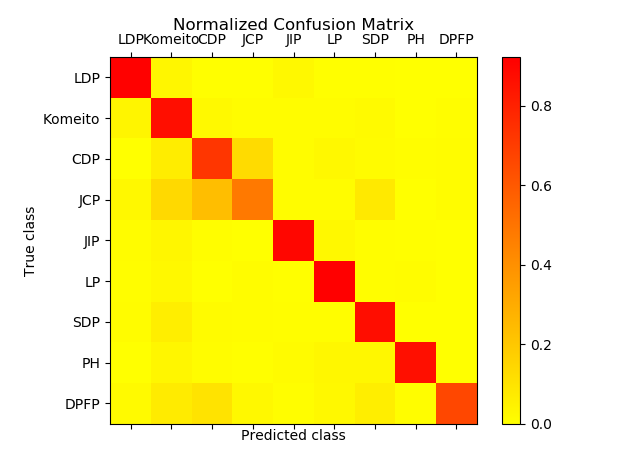
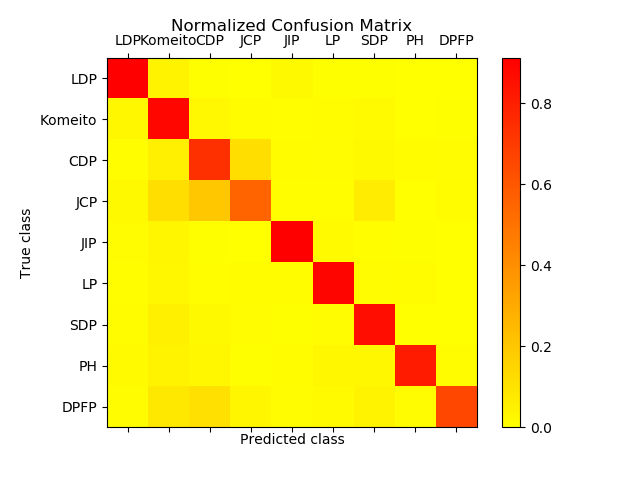
平均混合行列を作成

diff --git a/result/analyze.py b/result/analyze.py
@@ -1,0 +1,38 @@
+import numpy as np
+import matplotlib.pyplot as plt
+import csv
+
+def main():
+    cm = []
+    for i in range(1, 4):
+        cm.append(np.load("result/{0}/cm.npy".format(i)))
+    cm = np.asarray(cm)
+    cm_a = np.mean(cm,axis=0)
+
+    fig = plt.figure()
+    parties = get_parties()
+    ax = plt.subplot()
+    cax = ax.matshow(cm_a, interpolation="nearest", cmap="autumn_r")
+    fig.colorbar(cax)
+    ax.set_xticklabels([""]+parties)
+    ax.set_yticklabels([""]+parties)
+    plt.title("Normalized Confusion Matrix")
+    plt.xlabel("Predicted class")
+    plt.ylabel("True class")
+    plt.show()
+
+    with open("result/cm.csv","w") as f:
+        writer = csv.writer(f,delimiter=",")
+        writer.writerows(cm_a)
+
+
+def get_parties():
+    parties = []
+    with open("DataCollecting/Politicians.csv" ,"r") as f:
+        data = csv.DictReader(f)
+        for row in data:
+            parties.append(row["party_name"])
+    return parties
+
+if __name__ == "__main__":
+    main()
